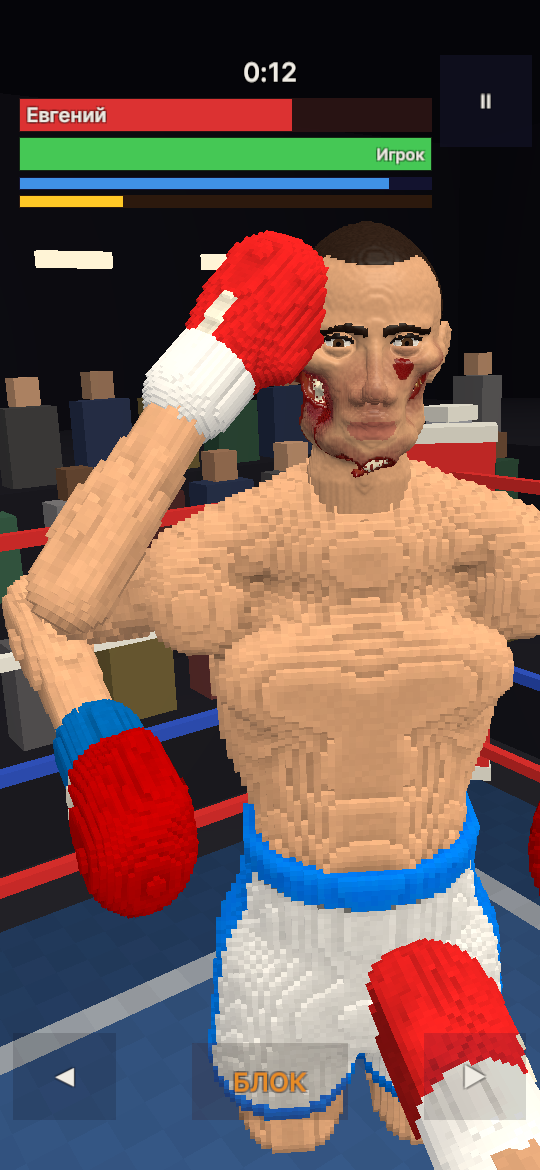
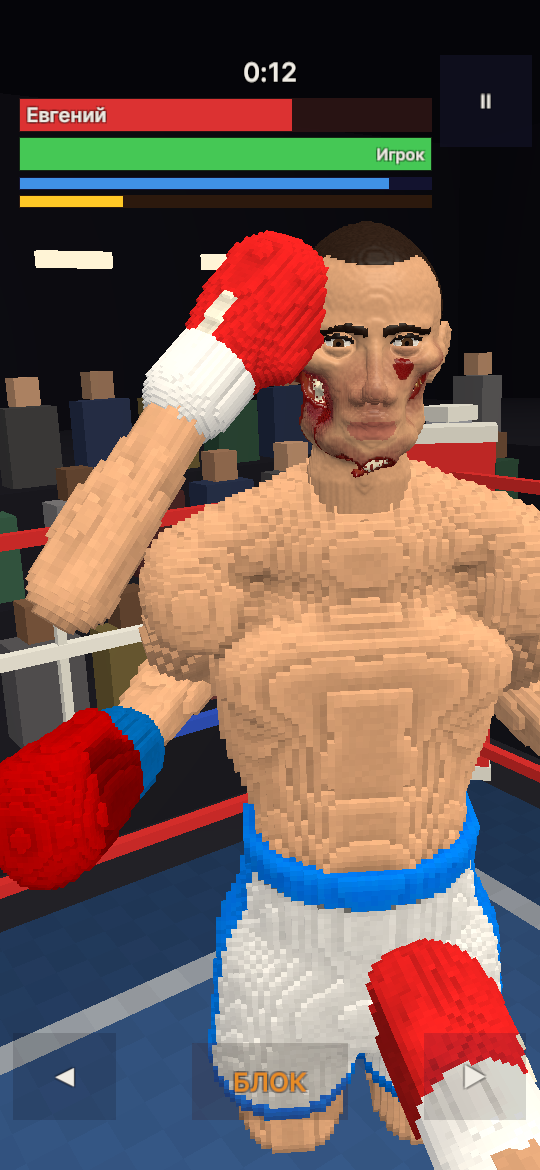
Игровой слой, запуск 1 принят: бой от первого лица с настоящими ударами по голове, тело соперника, ринг, зрители, HUD, нокдаун со счётом, экран победы
Лёгкие и средние удары теперь засчитываются (AnatView.Hit для них возвращает 0 снятых ячеек), луч Pick укорочен (28-44 -> 11-16 мс в редакторе), камера следует за высотой головы.
Тесты VoxGame.Tests 111/0/0, VoxProbe.Tests.Anatomy 44/0/0. Кадр удара в редакторе: avg 33,2 мс, из них слой 0,26 мс.

diff --git a/Unity/Assets/Game/Runtime/UI/FightHUD.cs b/Unity/Assets/Game/Runtime/UI/FightHUD.cs
@@ -21,6 +21,7 @@ namespace VoxGame {
         Text _timerLbl;
         Text _kdLbl;
         Text _telegraphL, _telegraphR;
+        Image _telBgL, _telBgR;   // плашки подсказки замаха (в них «!»)
         Text _comboLbl;
         Text _countLbl;    // крупный счёт рефери
         Text _bannerLbl;   // центральный баннер
@@ -92,13 +93,9 @@ namespace VoxGame {
             _kdLbl = UIKit.Label(transform, "KD", UIKit.FontSm, UIKit.Accent, semiBold: true);
             _kdLbl.text = "";
 
-            // Подсказка замаха соперника: «!» с той стороны, откуда идёт удар
-            _telegraphL = UIKit.Label(transform, "TelL", UIKit.FontXl + 18, UIKit.HpRed, semiBold: true);
-            _telegraphL.text = "!";
-            _telegraphL.gameObject.SetActive(false);
-            _telegraphR = UIKit.Label(transform, "TelR", UIKit.FontXl + 18, UIKit.HpRed, semiBold: true);
-            _telegraphR.text = "!";
-            _telegraphR.gameObject.SetActive(false);
+            // Подсказка замаха соперника: красная плашка с крупным «!» с той стороны, откуда идёт удар
+            _telegraphL = TelegraphBadge("TelL", out _telBgL);
+            _telegraphR = TelegraphBadge("TelR", out _telBgR);
 
             _comboLbl = UIKit.Label(transform, "Combo", UIKit.FontLg, UIKit.Accent, semiBold: true);
             _comboLbl.text = "";
@@ -135,6 +132,16 @@ namespace VoxGame {
             Place(go.GetComponent<RectTransform>(), 0f, 0f, 1f, 1f);
 
             OnLayout(false);
+        }
+
+        Text TelegraphBadge(string name, out Image bg) {
+            var rt = UIKit.Panel(transform, name, new Color(0.86f, 0.12f, 0.12f, 0.5f));
+            bg = rt.GetComponent<Image>();
+            var t = UIKit.Label(rt, "Mark", 92, UIKit.TextMain, semiBold: true);
+            Stretch(t.rectTransform, 0f, 0f, 0f, 0f);
+            t.text = "!";
+            rt.gameObject.SetActive(false);
+            return t;
         }
 
         // Якоря в долях экрана, без отступов.
@@ -204,20 +211,17 @@ namespace VoxGame {
                 if (show) _comboLbl.text = "×" + d.combo;
             }
 
-            // Телеграф: «!» при замахе соперника
+            // Телеграф: плашка «!» при замахе соперника; даже слабая подсказка стиля читается (не прозрачнее 0.55)
             bool telActive = d.foePhase == FightPhase.Windup && d.telegraphAlpha > 0.05f;
+            bool showL = telActive && d.foeAttackSide < 0, showR = telActive && d.foeAttackSide > 0;
+            if (_telBgL.gameObject.activeSelf != showL) _telBgL.gameObject.SetActive(showL);
+            if (_telBgR.gameObject.activeSelf != showR) _telBgR.gameObject.SetActive(showR);
             if (telActive) {
-                bool showL = d.foeAttackSide < 0;
-                bool showR = d.foeAttackSide > 0;
-                Color c = UIKit.HpRed;
-                c.a = d.telegraphAlpha;
-                _telegraphL.gameObject.SetActive(showL);
-                _telegraphR.gameObject.SetActive(showR);
-                if (showL) _telegraphL.color = c;
-                if (showR) _telegraphR.color = c;
-            } else {
-                _telegraphL.gameObject.SetActive(false);
-                _telegraphR.gameObject.SetActive(false);
+                float a = Mathf.Max(0.55f, d.telegraphAlpha);
+                var bc = new Color(0.86f, 0.12f, 0.12f, 0.8f * a);
+                var tc = new Color(1f, 1f, 1f, a);
+                if (showL) { _telBgL.color = bc; _telegraphL.color = tc; }
+                if (showR) { _telBgR.color = bc; _telegraphR.color = tc; }
             }
 
             // Виньетка: появляется при hp < 55%
@@ -275,8 +279,8 @@ namespace VoxGame {
                 Place(_kdLbl,    0.030f, 0.825f, 0.250f, 0.895f);
                 _kdLbl.alignment = TextAnchor.MiddleLeft;
                 UIKit.SetCorner(_pauseBtn.GetComponent<RectTransform>(), 1f, 1f, 1f, 1f, 84f, 84f, -8f, -8f);
-                Place(_telegraphL, 0.200f, 0.400f, 0.300f, 0.640f);
-                Place(_telegraphR, 0.700f, 0.400f, 0.800f, 0.640f);
+                Place(_telBgL, 0.150f, 0.440f, 0.230f, 0.660f);
+                Place(_telBgR, 0.770f, 0.440f, 0.850f, 0.660f);
                 Place(_comboLbl,   0.640f, 0.520f, 0.820f, 0.660f);
                 Place(_countLbl,   0.350f, 0.440f, 0.650f, 0.880f);
                 Place(_bannerLbl,  0.200f, 0.280f, 0.800f, 0.440f);
@@ -295,9 +299,10 @@ namespace VoxGame {
                 Place(_kdLbl,    0.600f, 0.812f, 0.800f, 0.848f);
                 _kdLbl.alignment = TextAnchor.MiddleRight;
                 UIKit.SetCorner(_pauseBtn.GetComponent<RectTransform>(), 1f, 1f, 1f, 1f, 92f, 92f, -8f, -8f);
-                Place(_telegraphL, 0.020f, 0.560f, 0.200f, 0.680f);
-                Place(_telegraphR, 0.800f, 0.560f, 0.980f, 0.680f);
-                Place(_comboLbl,   0.280f, 0.300f, 0.720f, 0.360f);
+                Place(_telBgL, 0.025f, 0.560f, 0.185f, 0.660f);
+                Place(_telBgR, 0.815f, 0.560f, 0.975f, 0.660f);
+                // комбо — под полосами справа, не на сопернике
+                Place(_comboLbl,   0.600f, 0.760f, 0.960f, 0.812f);
                 Place(_countLbl,   0.200f, 0.560f, 0.800f, 0.800f);
                 Place(_bannerLbl,  0.040f, 0.390f, 0.960f, 0.470f);
                 // кнопки раздельно по низу: между ними видно соперника

diff --git a/Unity/Assets/Game/Runtime/Presentation/FoeBody.cs b/Unity/Assets/Game/Runtime/Presentation/FoeBody.cs
@@ -90,7 +90,7 @@ namespace VoxGame
             d = VoxModel.Ell(x, y - 29, z + 1, 15.0f, 16.5f, 10.8f);
             d = VoxModel.Smin(d, VoxModel.Ell(x, y - 12, z - 1.5f, 13.2f, 13.5f, 9.6f), 5);
             d = VoxModel.Smin(d, VoxModel.Ell(x, y - 2, z, 14.4f, 7.5f, 10.4f), 4);
-            d = VoxModel.Smin(d, VoxModel.Ell(ax - 7.4f, y - 33.8f, z - 6.4f, 8.8f, 5.8f, 3.5f), 2.2f);   // грудные
+            d = VoxModel.Smin(d, VoxModel.Ell(ax - 7.4f, y - 33.8f, z - 6.0f, 8.8f, 5.8f, 3.0f), 2.2f);   // грудные
             d = VoxModel.Smin(d, VoxModel.Ell(ax - 10.5f, y - 27, z + 3.5f, 6.5f, 13, 7), 4);            // широчайшие
             d = VoxModel.Smin(d, VoxModel.Ell(x, y - 34, z + 4.5f, 15.5f, 13, 8.6f), 4);                 // спина
             d = VoxModel.Smin(d, VoxModel.Ell(x, y - 45.5f, z + 3.0f, 11.5f, 4.8f, 6.0f), 4);            // надплечья
@@ -234,7 +234,11 @@ namespace VoxGame
                 Vector3 kn = phase == FightPhase.Strike ? (gt - sh).normalized
                            : low ? (fwd * 0.4f - up).normalized
                            : (up * 0.6f + fwd * 0.8f - right * sg * 0.15f).normalized;
-                Vector3 pole = low ? right * sg * 0.9f - fwd * 0.4f : right * sg * 0.75f - up - fwd * 0.2f;
+                // локоть: в стойке — вниз и в сторону; при опущенных руках (раскрылся, шатается) — вниз и назад,
+                // иначе локти торчат в стороны «руки в боки»
+                float armLow = Mathf.InverseLerp(1.42f, 1.22f, glovePos[s].y);
+                Vector3 pole = low ? right * sg * 0.9f - fwd * 0.4f
+                                   : Vector3.Lerp(right * sg * 0.75f - up - fwd * 0.2f, right * sg * 0.25f - up - fwd * 0.7f, armLow);
                 Vector3 back = right * sg * 0.85f + fwd * 0.5f;
                 BoxerParts.SolveArm(upper[s], fore[s], glove[s], sh, gt, kn, pole, back, scale);
             }

diff --git a/Unity/Assets/Game/Runtime/Presentation/FightDirector.cs b/Unity/Assets/Game/Runtime/Presentation/FightDirector.cs
@@ -607,7 +607,7 @@ namespace VoxGame
 
             // Взгляд: по стойке, а за упавшим соперником — вниз, к его голове
             bool low = st.phase == FightPhase.Down || st.phase == FightPhase.KO;
-            _camFollow = Mathf.Lerp(_camFollow, low ? 0.8f : 0f, 1f - Mathf.Exp(-3.5f * realDt));
+            _camFollow = Mathf.Lerp(_camFollow, low ? 0.6f : 0f, 1f - Mathf.Exp(-3.5f * realDt));
             Quaternion stand = Quaternion.Euler(land ? LandPitch : PortPitch, 180f, _camDodge * -25f);
             Vector3 look = Vector3.Lerp(eye + stand * Vector3.forward * 1.1f, _foeBody.headMount.position, _camFollow);
             _cam.transform.SetPositionAndRotation(eye, Quaternion.LookRotation(look - eye, stand * Vector3.up));
@@ -629,7 +629,8 @@ namespace VoxGame
             _hudData.foeAttackSide  = _strikeCmd.side;
             _hudData.telegraphAlpha = st.phase == FightPhase.Windup ? _aiStyle.hn : 0f;
             _hudData.playerBlocking = st.playerBlocking;
-            _hudData.combo          = st.comboCount;
+            // лежачему комбо не показываем: надпись висела бы над упавшим соперником
+            _hudData.combo          = st.phase == FightPhase.Down || st.phase == FightPhase.KO ? 0 : st.comboCount;
         }
 
         // ---- Перезапуск ----------------------------------------------------
